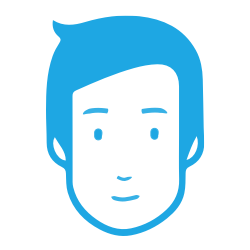
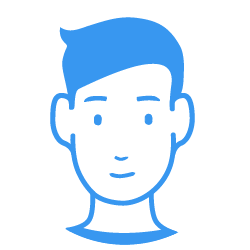
Increase font size and colors

Changed region(s): [[0.168, 0.056, 0.84, 0.98], [0.42, 0.672, 0.56, 0.728], [0.448, 0.616, 0.532, 0.644]]

diff --git a/app/assets/stylesheets/pages/home.sass b/app/assets/stylesheets/pages/home.sass
@@ -10,20 +10,21 @@ section.introduction
   a.blink
     background-color: #fff
     color: $primary
-    border: 1px solid lighten($primary, 15%)
+    border: 1px solid $primary
     float: none
     text-decoration: none
     display: inline-block
     border-radius: 15px 15px 15px 3px
-    width: 27px
-    height: 20px
-    padding: 0 3px
-    margin-left: 3px
+    width: 30px
+    height: 22px
+    padding: 0 2px
+    line-height: 20px
+    margin-left: 5px
     clear: right
     text-align: center
     span
       position: relative
-      top: -7px
+      top: -5px
       animation: blink 2s linear infinite
       font-size: 1em
       letter-spacing: 0.05em
@@ -36,11 +37,11 @@ section.introduction
     background-image: image-url("illustration_b.png")
     background-size: 100%
     background-position: center top
-    width: 100px
-    height: 100px
+    width: 125px
+    height: 125px
     position: absolute
     top: 25px
-    right: 0
+    right: 15px
     display: block
     @media (max-width: 480px)
       display: none

diff --git a/app/assets/stylesheets/base/type.sass b/app/assets/stylesheets/base/type.sass
@@ -2,7 +2,7 @@
 
 body
   font-family: 'Source Sans Pro', sans-serif
-  font-size: 16px
+  font-size: 18px
   padding: 0
   margin: 0
   font-weight: 200

diff --git a/app/assets/stylesheets/base/colours.sass b/app/assets/stylesheets/base/colours.sass
@@ -1,4 +1,4 @@
-$primary: #1EA7E3
+$primary: #3897f0
 $background: #F9F9F9
 $background_dark: #007BB0
 $error: #FF4136
